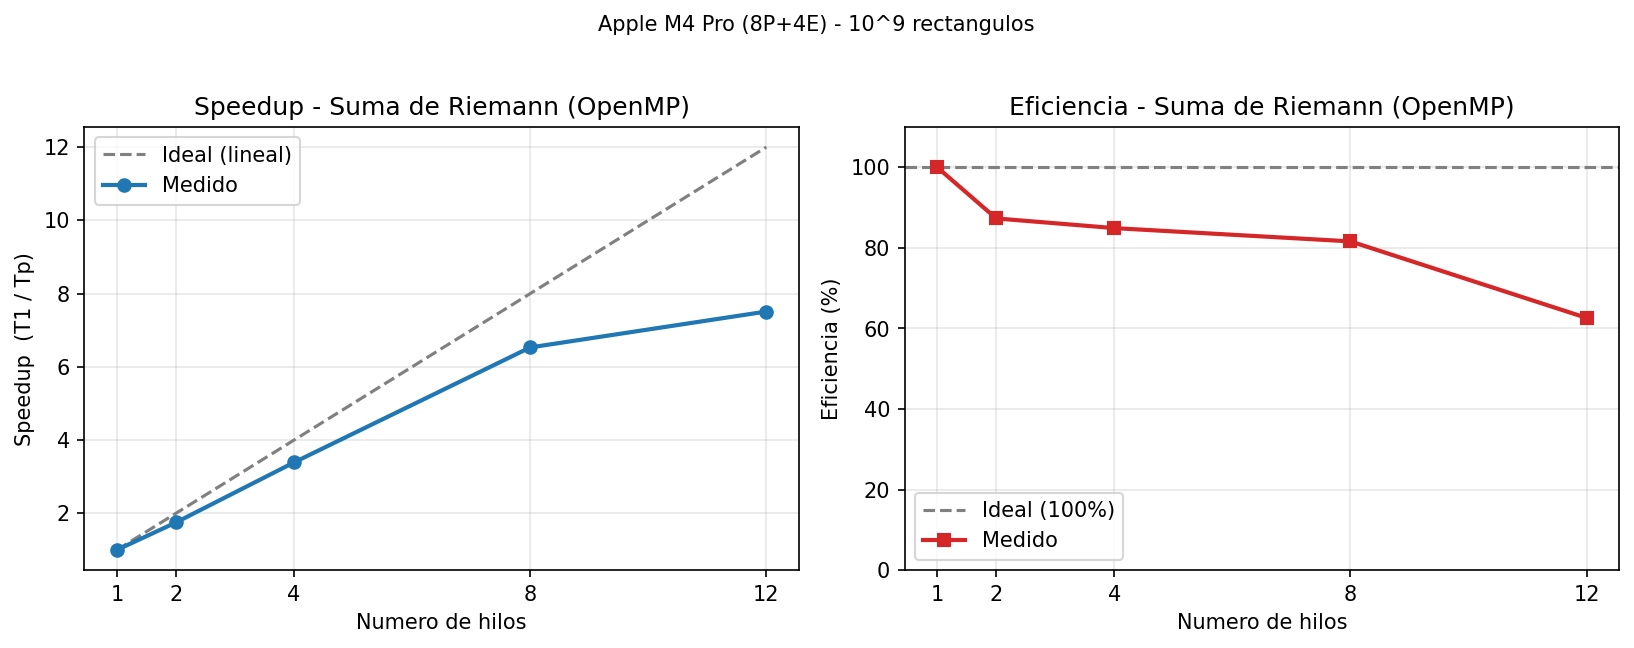
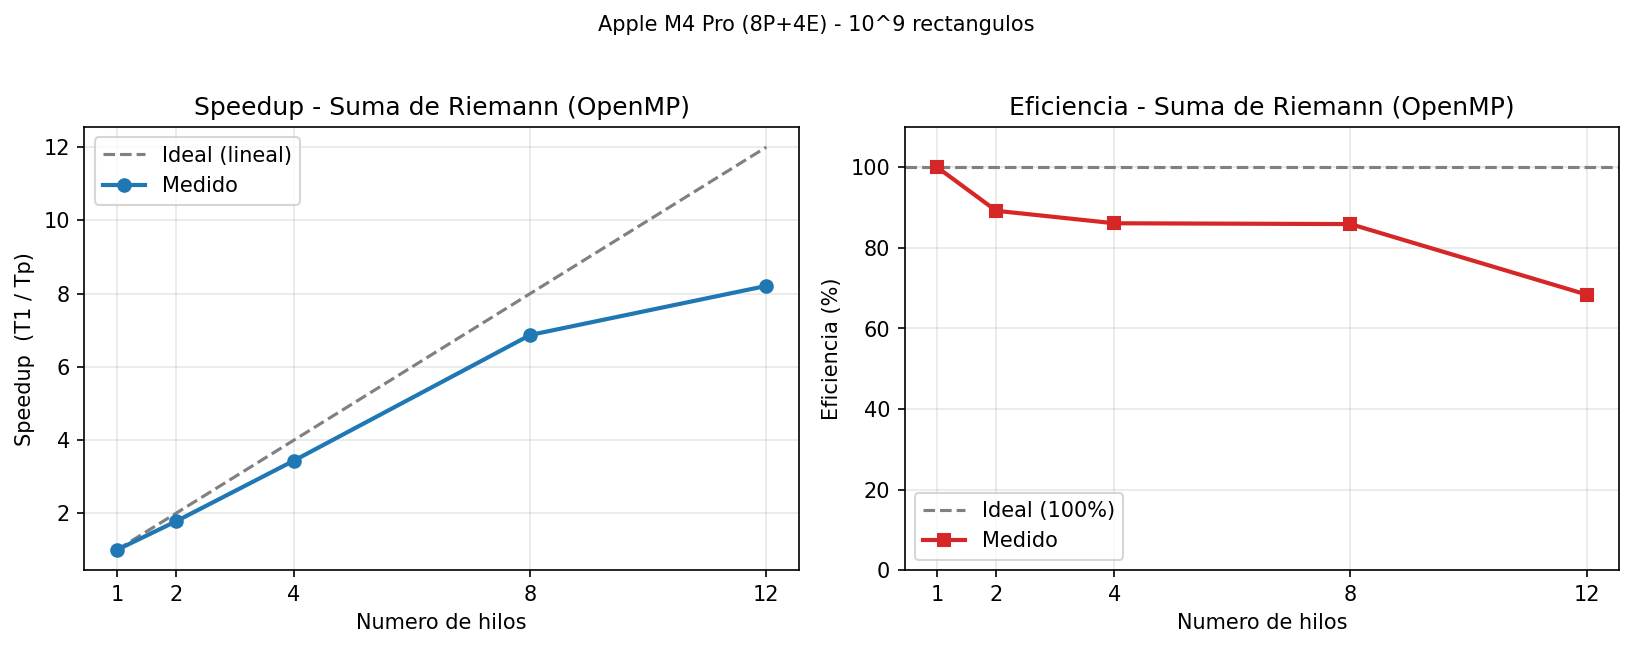
Resultados y metricas individuales - Fernando Rueda (Riemann + Histograma)
Agrega seccion del histograma con speedup/eficiencia (tiempo total),
grafica y evidencia; alinea Riemann a la corrida real y suma el script
bench_histograma.sh.

diff --git a/docs/FernandoR_Resultados_y_Métricas.md b/docs/FernandoR_Resultados_y_Métricas.md
@@ -1,127 +1,147 @@
 # Resultados y Métricas — Fernando Rueda (23748)
 
 **Consultora HPC:** Los Paralelos
-**Problema:** Integración Numérica (Suma de Riemann)
 **Máquina de pruebas:** Apple M4 Pro — 12 núcleos (8 de rendimiento + 4 de eficiencia), 24 GB RAM
 **Compilador:** `clang` + `libomp` (OpenMP), optimización `-O2`
-**Tamaño del problema:** n = 10⁹ rectángulos, intervalo [0, π], f(x) = x² + sin(x)
+
+Mis mediciones cubren los dos problemas de la consultora: la **Suma de Riemann** (que
+implementé yo) y el **Histograma** (implementado por mi compañero), corriendo ambos en mi
+propia máquina para reportar mi speedup y eficiencia individuales.
+
+En los dos casos el tiempo base **T₁** es el mismo binario paralelo corrido con **1 hilo**,
+para que T₁ y Tₚ se midan exactamente igual. Speedup: **S(p) = T₁ / Tₚ**. Eficiencia:
+**E(p) = S(p) / p × 100 %**.
 
 ---
 
+# 1. Suma de Riemann
+
+**Tamaño del problema:** n = 10⁹ rectángulos, intervalo [0, π], f(x) = x² + sin(x).
+
 ## Qué paralelicé y por qué mejora al secuencial
 
-El secuencial recorre los 10⁹ rectángulos en un solo ciclo y va acumulando el área en una
-variable (`areaTotal += f(xi) * dx`). Ese es el trabajo que reparto entre varios hilos con
-una sola directiva:
+El secuencial recorre los 10⁹ rectángulos en un solo ciclo acumulando el área
+(`areaTotal += f(xi) * dx`). Ese es el trabajo que reparto entre hilos con una sola directiva:
 
 ```c
 #pragma omp parallel for reduction(+:areaTotal) schedule(static)
 ```
 
-Tomé tres decisiones y cada una tiene una razón concreta:
+- **`reduction(+:areaTotal)`** — es el corazón del asunto. Si todos los hilos escribieran
+  directo sobre `areaTotal` tendría una *race condition*. La reducción le da a cada hilo su
+  copia privada, cada uno suma su pedazo, y al final OpenMP junta todo. Descarté
+  `#pragma omp critical` porque serializaría la suma y mataría el speedup.
+- **`schedule(static)`** — todos los rectángulos cuestan igual, así que el reparto en bloques
+  iguales es lo óptimo; un `dynamic` solo agregaría overhead sin beneficio.
+- **`omp_get_wtime()` en vez de `clock()`** — `clock()` suma el tiempo de CPU de todos los
+  núcleos y daría un speedup falso. `omp_get_wtime()` mide tiempo real de pared.
 
-- **`reduction(+:areaTotal)`** — es el corazón del asunto. Si dejara que todos los hilos
-  escribieran directamente sobre `areaTotal` tendría una *race condition* y el resultado
-  saldría mal. La reducción le da a cada hilo su propia copia privada, cada uno suma su
-  pedazo por separado, y al final OpenMP junta todas las copias en una sola suma. Descarté
-  usar `#pragma omp critical` porque serializaría la suma (un hilo a la vez) y mataría el
-  speedup.
-
-- **`schedule(static)`** — todos los rectángulos cuestan exactamente lo mismo, así que la
-  carga es uniforme. El reparto estático en bloques iguales es lo óptimo aquí; un `dynamic`
-  solo agregaría overhead de coordinación sin ningún beneficio.
-
-- **`omp_get_wtime()` en vez de `clock()`** — el secuencial medía con `clock()`, que suma el
-  tiempo de CPU de *todos* los núcleos. En paralelo eso daría un "tiempo" que crece con los
-  hilos y un speedup falso. Cambié a `omp_get_wtime()`, que mide tiempo real de pared, que es
-  lo que de verdad le importa al usuario.
-
-**La correctitud se mantiene:** el área da 12.33542554459… en todas las corridas. Solo cambian
-los últimos dígitos según el número de hilos, porque el orden en que se suman los términos
-varía en la reducción. Eso es normal en punto flotante y confirma que estoy resolviendo el
-mismo problema, no uno distinto.
-
----
-
-## Metodología de medición
-
-- Cada configuración se corrió **3 veces** y reporto el **mejor tiempo** (reduce el ruido del
-  sistema operativo).
-- El tiempo base **T₁** es el propio binario paralelo corrido con **1 hilo**, para que T₁ y Tₚ
-  se midan exactamente igual (mismo código, mismo `omp_get_wtime()`).
-- **Speedup:** S(p) = T₁ / Tₚ  **Eficiencia:** E(p) = S(p) / p × 100 %
-
----
+**Correctitud:** el área da 12.33542554459… en todas las corridas; solo cambian los últimos
+dígitos según el número de hilos, por el orden de suma en la reducción. Es normal en punto
+flotante y confirma que resuelvo el mismo problema.
 
 ## Resultados
 
+Metodología: mejor de 3 corridas por configuración (`bash docs/bench_suma.sh`).
+
 | Hilos | Tiempo (s) | Speedup (T₁/Tₚ) | Eficiencia |
 |:-----:|:----------:|:---------------:|:----------:|
-| 1     | 2.0067     | 1.00×           | 100.0 %    |
-| 2     | 1.1493     | 1.75×           | 87.3 %     |
-| 4     | 0.5912     | 3.39×           | 84.9 %     |
-| 8     | 0.3075     | 6.53×           | 81.6 %     |
-| 12    | 0.2672     | 7.51×           | 62.6 %     |
+| 1     | 2.0979     | 1.00×           | 100.0 %    |
+| 2     | 1.1754     | 1.78×           | 89.2 %     |
+| 4     | 0.6090     | 3.44×           | 86.1 %     |
+| 8     | 0.3054     | 6.87×           | 85.9 %     |
+| 12    | 0.2555     | 8.21×           | 68.4 %     |
 
-![Speedup y Eficiencia](fernandoR_speedup_eficiencia.png)
+![Speedup y Eficiencia - Riemann](fernandoR_speedup_eficiencia.png)
 
----
+**Evidencia de corrida** (se ve el comando, mi usuario/máquina y la tabla):
+
+![Evidencia Riemann](fernandoR_evidencia_suma.png)
 
 ## Análisis
 
-- **De 1 a 8 hilos el escalamiento es casi lineal.** El speedup sube de forma sostenida y la
-  eficiencia se queda arriba del 80 %, lo cual es muy bueno: significa que la paralelización
-  aprovecha casi todo el hardware disponible. Pasé de ~2.0 s a ~0.31 s (**6.5× más rápido**).
-
-- **La caída de eficiencia a 12 hilos (62.6 %) tiene una explicación de hardware.** El M4 Pro
-  tiene 8 núcleos de rendimiento y 4 de eficiencia (más lentos). Con 8 hilos uso solo los
-  rápidos; al pasar a 12, los últimos 4 hilos caen en núcleos lentos y no aportan lo mismo,
-  así que el speedup sigue subiendo (7.51×) pero la eficiencia baja. Es un límite físico de la
-  máquina, no de mi código.
-
-- **Por qué la eficiencia nunca llega al 100 %:** siempre hay un costo de crear y sincronizar
-  los hilos y de juntar las copias de la reducción al final. En un problema como este, además,
-  la operación por rectángulo es barata, así que el acceso a memoria empieza a pesar. Aun así,
-  el resultado es sólido: **la versión paralela es hasta 7.5× más rápida que la secuencial**.
-
-**Conclusión:** las tres decisiones (reducción, scheduling estático y medición con tiempo de
-pared) sí se tradujeron en una mejora real y medible sobre el algoritmo secuencial.
+- **De 1 a 8 hilos el escalamiento es casi lineal**: la eficiencia se queda arriba del 85 % y
+  paso de ~2.1 s a ~0.31 s (**6.9× más rápido**). La paralelización aprovecha casi todo el
+  hardware, justo lo que se espera de un problema grande, uniforme y de reducción pura.
+- **La caída a 12 hilos (68.4 %) es de hardware**: el M4 Pro tiene 8 núcleos de rendimiento y
+  4 de eficiencia (más lentos). Con 12 hilos los últimos 4 caen en los lentos, así que el
+  speedup sigue subiendo (8.21×) pero la eficiencia baja. Es un límite físico, no del código.
+- **Por qué nunca llega a 100 %:** siempre hay costo de crear/sincronizar hilos y de juntar la
+  reducción. Aun así el resultado es sólido: **hasta 8.2× más rápido que el secuencial**.
 
 ---
 
-## Evidencia de corridas
+# 2. Histograma
 
-Salida real del programa (log completo en [`fernandoR_corridas.txt`](fernandoR_corridas.txt)):
+**Tamaño del problema:** N = 10⁶ mediciones (máximo que permite la implementación,
+`#define MAX 1000000`), clasificadas en 100 cubetas.
 
-```
-$ ./suma_omp 0 3.141592653589793 1
-Hilos utilizados      = 1
-Area total aproximada = 12.335425544595667
-Tiempo de ejecucion   = 2.047350 segundos (wall time)
+## Cómo está paralelizado
 
-$ ./suma_omp 0 3.141592653589793 8
-Hilos utilizados      = 8
-Area total aproximada = 12.335425544596465
-Tiempo de ejecucion   = 0.311146 segundos (wall time)
+La versión paralela hace dos cosas antes de reportar: un **merge sort** con tareas y el
+**conteo del histograma**. Las directivas clave son:
 
-$ ./suma_omp 0 3.141592653589793 12
-Hilos utilizados      = 12
-Area total aproximada = 12.335425544596564
-Tiempo de ejecucion   = 0.276347 segundos (wall time)
-```
+- **Merge sort con `#pragma omp task` + `taskwait`** — cada mitad de la recursión se lanza
+  como una tarea que cualquier hilo puede tomar, con un umbral (`UMBRAL 10000`) para no crear
+  tareas de más en segmentos chicos.
+- **Histograma con `histLocal[]` privado por hilo + `#pragma omp critical`** — cada hilo cuenta
+  en su propio arreglo de 100 cubetas (evita la *race condition*) y al final vuelca su conteo
+  al global dentro de un `critical`. Aquí `critical` sí es válido porque solo se ejecuta una
+  vez por hilo (100 sumas), no por elemento.
 
-> **Pendiente mío:** adjuntar el screenshot/video de mis corridas (requisito del examen).
+## Resultados
+
+Metodología: mejor de 7 corridas por configuración (`bash docs/bench_histograma.sh`). Reporto
+el **tiempo total** del programa (merge sort + histograma), porque el histograma por sí solo
+corre en ~2 ms — demasiado rápido para medir un speedup confiable.
+
+| Hilos | Total (s) | Speedup (T₁/Tₚ) | Eficiencia |
+|:-----:|:---------:|:---------------:|:----------:|
+| 1     | 0.05973   | 1.00×           | 100.0 %    |
+| 2     | 0.03207   | 1.86×           | 93.1 %     |
+| 4     | 0.02062   | 2.90×           | 72.4 %     |
+| 8     | 0.01482   | 4.03×           | 50.4 %     |
+| 12    | 0.01250   | 4.78×           | 39.8 %     |
+
+![Speedup y Eficiencia - Histograma](fernandoR_histograma_speedup.png)
+
+**Evidencia de corrida** (se ve el comando, mi usuario/máquina y la tabla):
+
+![Evidencia Histograma](fernandoR_evidencia_histograma.png)
+
+## Análisis
+
+- **El speedup se aplana rápido** (4.78× con 12 hilos, eficiencia ~40 %), muy distinto a
+  Riemann. Hay tres razones: el trabajo total es chico (~60 ms), así que el costo fijo de crear
+  hilos y tareas pesa mucho más; el merge sort tiene una parte **inherentemente secuencial**
+  (los `Merge` cerca de la raíz del árbol), lo que limita el speedup por la **Ley de Amdahl**;
+  y el `critical` del histograma serializa la combinación final.
+- **El histograma en sí escala bien pero es irrelevante en tiempo:** 2 ms → 0.28 ms. En un
+  problema tan pequeño, el overhead de paralelizar casi se come la ganancia.
 
 ---
 
-## Cómo reproducir
+# Conclusión
+
+El contraste entre los dos problemas es la lección principal: **la Suma de Riemann escala casi
+lineal** (8.2×) porque es un problema grande, de carga uniforme y reducción pura; el
+**histograma se aplana** (4.8×, 40 % de eficiencia) porque es pequeño y tiene partes
+secuenciales. Paralelizar rinde cuando el trabajo es suficientemente grande y regular —
+exactamente el criterio que se espera de una consultora HPC.
+
+---
+
+# Cómo reproducir
 
 ```bash
-# Compilar y correr el barrido completo (speedup + eficiencia)
+# Suma de Riemann (speedup + eficiencia)
 bash docs/bench_suma.sh
+
+# Histograma (speedup + eficiencia)
+bash docs/bench_histograma.sh
 ```
 
-O manualmente:
+Compilación manual de cada programa:
 
 ```bash
 # macOS (clang + libomp)
@@ -131,5 +151,6 @@ clang -Xpreprocessor -fopenmp -I"$(brew --prefix libomp)/include" \
 # Linux (gcc)
 gcc -fopenmp -O2 paralelo/suma_omp.c -o suma_omp
 
-./suma_omp 0 3.141592653589793 8   # a  b  num_hilos
+./suma_omp 0 3.141592653589793 8              # Riemann:  a  b  num_hilos
+echo 1000000 | OMP_NUM_THREADS=8 ./histograma # Histograma: N por stdin, hilos por env
 ```
